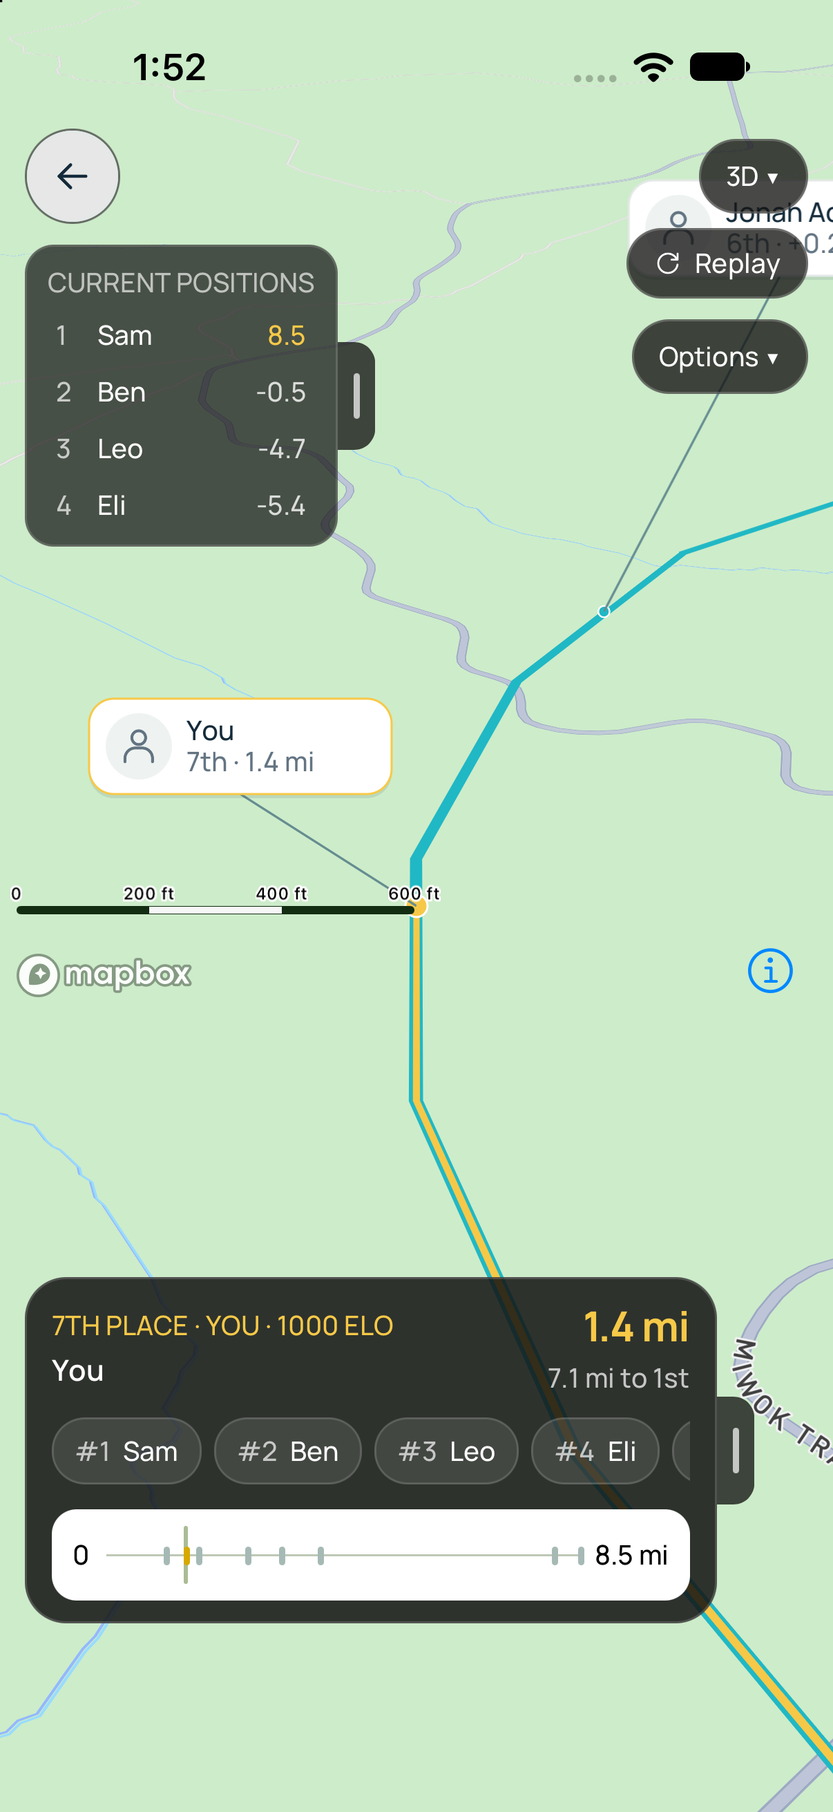
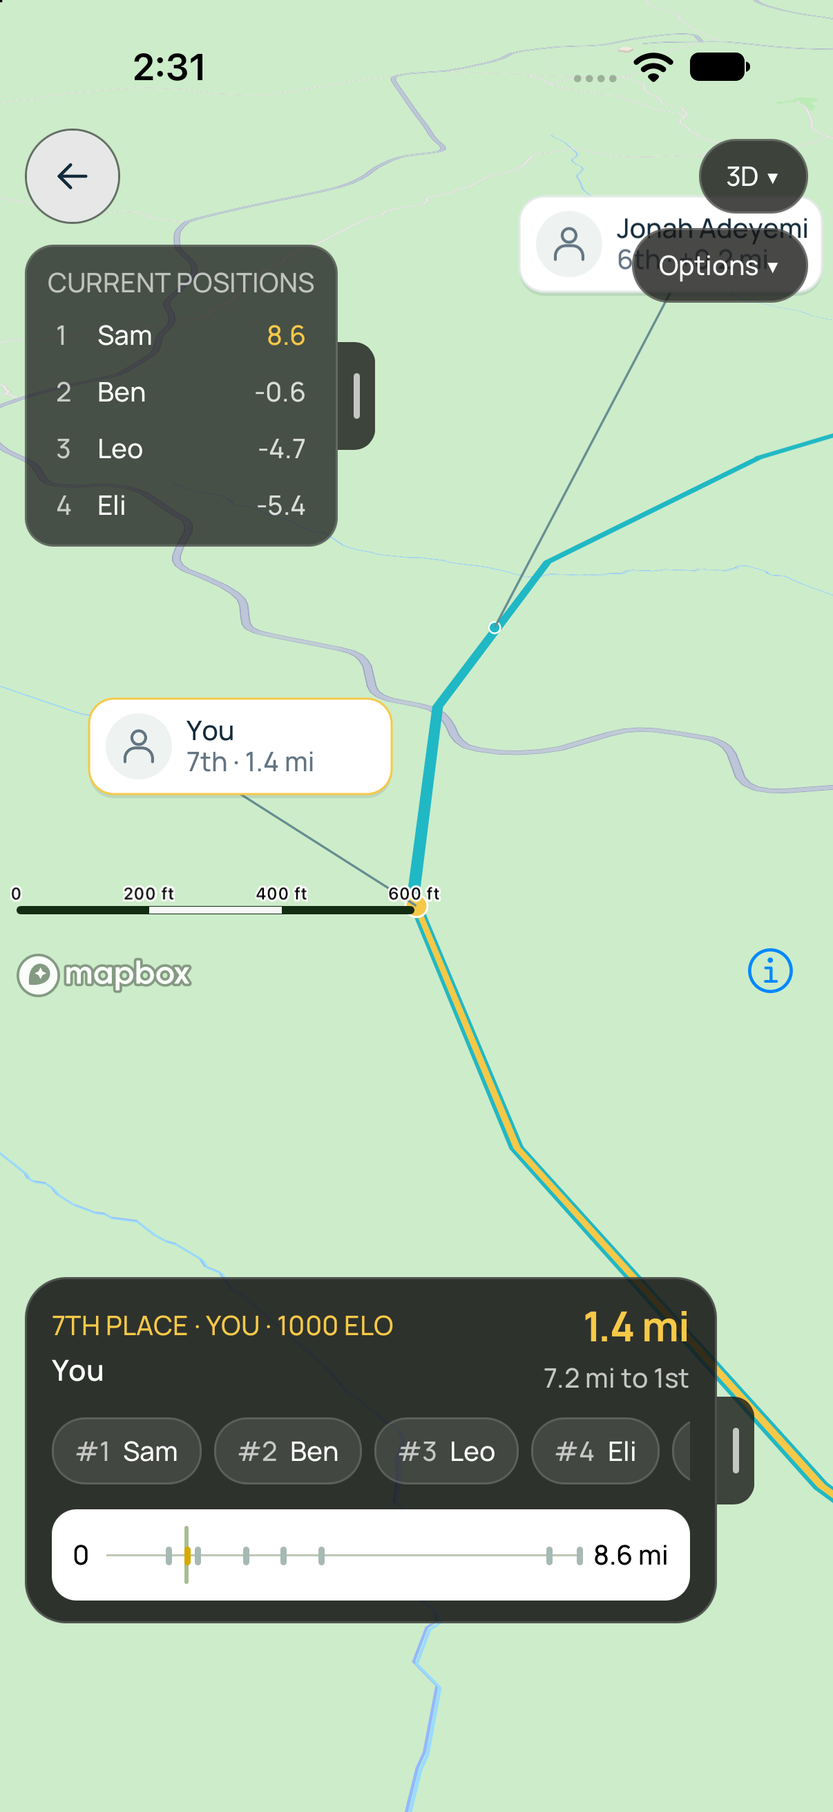
Move fullscreen course replay into Options

diff --git a/apps/mobile/src/features/competition-field.tsx b/apps/mobile/src/features/competition-field.tsx
@@ -4,7 +4,7 @@ import { FieldViewSwitcher } from "../ui/field-view-switcher";
 import { FieldGroundSwitcher } from "../ui/field-ground-switcher";
 import { GeographicCourse } from "./geographic-course";
 import { useCompetitionCourse } from "./use-competition-course";
-import { CompetitionReplayButton } from "./competition-replay";
+import { CompetitionReplayButton, CompetitionReplayModal } from "./competition-replay";
 import { UserAvatar } from "../ui/user-avatar";
 import { textStyle } from "../ui/section";
 import { useFieldFlight } from "../ui/use-field-flight";
@@ -68,6 +68,7 @@ export function CompetitionField({
     flight.cancel();
     setSceneDimension(value);
   };
+  const [courseReplayOpen, setCourseReplayOpen] = useState(false);
   const [expanded, setExpanded] = useState(false);
   const [intervalsCollapsed, setIntervalsCollapsed] = useState(false);
   const [spotlightCollapsed, setSpotlightCollapsed] = useState(false);
@@ -113,7 +114,7 @@ export function CompetitionField({
   useEffect(() => setCourseTarget(null), [accountKey, sport, period?.startsAt.getTime(), arena?.unit]);
   const defaultSpan = fieldDefaultSpan(arena?.unit ?? "km");
   const viewSpan = span ?? defaultSpan;
-  useEffect(() => { if (!isFocused) setExpanded(false); }, [isFocused]);
+  useEffect(() => { if (!isFocused) { setExpanded(false); setCourseReplayOpen(false); } }, [isFocused]);
   const me = arena?.lanes.find((l) => l.you);
   const total = me?.values[2] ?? 0;
 
@@ -210,7 +211,7 @@ export function CompetitionField({
     >
       {sceneDimension === "4d" ? <View style={{ height: sceneHeight }}>
         <View pointerEvents={expanded ? "auto" : "none"} style={{ flex: 1 }}>
-          <GeographicCourse hiddenIds={hiddenIds} lanes={fieldLanes} unit={arena.unit} selectedId={selectedId ?? me?.id ?? ""} focusRequest={focusRequest} onSelect={id => { if (!hold.current?.suppressSelection()) selectAthlete(id); }} course={course} error={courseError} onRetry={retryCourse} distanceTarget={courseTarget} optionsTop={expanded && !queued ? safeTop + 98 : undefined} controlsBottom={expanded ? safeBottom + (spotlightCollapsed ? 132 : 216) : 8} overlaysHidden={overlaysHidden} />
+          <GeographicCourse hiddenIds={hiddenIds} lanes={fieldLanes} unit={arena.unit} selectedId={selectedId ?? me?.id ?? ""} focusRequest={focusRequest} onSelect={id => { if (!hold.current?.suppressSelection()) selectAthlete(id); }} course={course} error={courseError} onRetry={retryCourse} distanceTarget={courseTarget} onReplay={() => setCourseReplayOpen(true)} optionsTop={expanded && !queued ? safeTop + 54 : undefined} controlsBottom={expanded ? safeBottom + (spotlightCollapsed ? 132 : 216) : 8} overlaysHidden={overlaysHidden} />
         </View>
         {!expanded ? <Pressable accessibilityRole="button" accessibilityLabel="Open 3D course in full screen" onPress={expandField} style={{ position: "absolute", inset: 0, alignItems: "center", justifyContent: "flex-end", paddingBottom: 10 }}>
           <View pointerEvents="none" style={{ backgroundColor: "rgba(20, 20, 19, 0.75)", borderRadius: 999, paddingHorizontal: 12, paddingVertical: 6 }}>
@@ -341,6 +342,7 @@ export function CompetitionField({
           <View onTouchStartCapture={() => hold.current?.reset()} style={[f.safe, { backgroundColor: "#0b242c", position: "relative" }]}>
             {fieldContent}
             {queueOverlay}
+            <CompetitionReplayModal open={courseReplayOpen} state={state} selection={replaySelection} dimension={sceneDimension} onClose={() => setCourseReplayOpen(false)} />
             {/* Top Bar HUD */}
             <FieldOverlayView
               hidden={overlaysHidden}
@@ -459,8 +461,8 @@ export function CompetitionField({
               })}
             </SlidingFieldPanel>
 
-            {/* Right Replay action positioned underneath the 2D dropdown */}
-            <FieldOverlayView
+            {/* Geographic replay lives in Options; other field views retain the Replay chip. */}
+            {sceneDimension !== "4d" ? <FieldOverlayView
               hidden={overlaysHidden}
               pointerEvents="box-none"
               style={{
@@ -479,7 +481,7 @@ export function CompetitionField({
                   label="Replay"
                 />}
               </View>
-            </FieldOverlayView>
+            </FieldOverlayView> : null}
 
             {/* Broadcast HUD: Bottom Focused Athlete Spotlight + Player Chips */}
             {focusedLane ? (

diff --git a/apps/mobile/src/ui/course-map.test.ts b/apps/mobile/src/ui/course-map.test.ts
@@ -3,7 +3,7 @@ import { act, create, type ReactTestRenderer } from "react-test-renderer";
 import { afterEach, expect, it, vi } from "vitest";
 import { createRaceCourse, raceCoursePosition, raceEffortMetres } from "@fitness-battle/shared";
 const calls = vi.hoisted(() => ({ setCamera: vi.fn() }));
-vi.mock("react-native", () => ({ View: "View", Text: "Text", Pressable: "Pressable", ScrollView: "ScrollView", Modal: "Modal", Dimensions: { get: () => ({ width: 390, height: 844 }) }, StyleSheet: { create: (value: unknown) => value } }));
+vi.mock("react-native", () => ({ View: "View", Text: "Text", Pressable: "Pressable", ScrollView: "ScrollView", Platform: { OS: "ios" }, Modal: ({ visible, ...props }: { visible: boolean }) => visible ? createElement("Modal", { visible, ...props }) : null, Dimensions: { get: () => ({ width: 390, height: 844 }) }, StyleSheet: { create: (value: unknown) => value } }));
 vi.mock("../lib/haptics", () => ({ playCue: vi.fn() }));
 vi.mock("./athlete-pennant", () => ({ AthletePennant: "AthletePennant" }));
 vi.mock("react-native-svg", () => ({ default: "Svg", G: "G" }));
@@ -18,7 +18,7 @@ afterEach(async () => { if (renderer) await act(async () => renderer.unmount());
 it("delegates native camera frames, pauses following on gestures, and flies from the observed position", async () => {
   vi.stubGlobal("IS_REACT_ACT_ENVIRONMENT", true);
   const course = createRaceCourse("City", [[0, 0], [.02, 0]]);
-  const props = { course, optionsTop: 154, lanes: [{ id: "you", name: "You", initials: "Y", you: true, value: .5 }, { id: "peer", name: "Peer", initials: "P", value: 1 }], unit: "km", selectedId: "you", focusRequest: 0, onSelect: vi.fn() };
+  const props = { course, optionsTop: 110, onReplay: vi.fn(), lanes: [{ id: "you", name: "You", initials: "Y", you: true, value: .5 }, { id: "peer", name: "Peer", initials: "P", value: 1 }], unit: "km", selectedId: "you", focusRequest: 0, onSelect: vi.fn() };
   await act(async () => { renderer = create(createElement(CourseMap, props), { createNodeMock: element => element.type === "Camera" ? calls : null }); });
   await act(async () => renderer.root.findByType("Map" as never).props.onDidFinishLoadingMap());
   expect(renderer.root.findAllByType("ShapeSource" as never).some(node => node.props.id === "course")).toBe(false);
@@ -43,7 +43,14 @@ it("delegates native camera frames, pauses following on gestures, and flies from
   const button = (label: string) => renderer.root.findAllByType("Pressable" as never).find(node => node.props.accessibilityLabel === label);
   expect(button("2D map")).toBeUndefined();
   await act(async () => button("Course options")!.props.onPress());
-  expect(["2D map", "Racers: spaced", "Race overview"].every(label => button(label))).toBe(true);
+  const dismissMenu = renderer.root.findByType("Modal" as never).props.onDismiss;
+  await act(async () => button("Replay")!.props.onPress());
+  expect(props.onReplay).not.toHaveBeenCalled();
+  await act(async () => dismissMenu());
+  expect(props.onReplay).toHaveBeenCalledOnce();
+  expect(button("2D map")).toBeUndefined();
+  await act(async () => button("Course options")!.props.onPress());
+  expect(["Replay", "2D map", "Racers: spaced", "Race overview"].every(label => button(label))).toBe(true);
   expect(["Following", "Recenter", "Zoom in", "Zoom out"].every(label => !button(label))).toBe(true);
   const together = renderer.root.findAllByType("ShapeSource" as never).find(node => node.props.id === "athletes")!.props.shape;
   await act(async () => button("Racers: spaced")!.props.onPress());

diff --git a/apps/mobile/src/features/geographic-course.tsx b/apps/mobile/src/features/geographic-course.tsx
@@ -12,15 +12,15 @@ class MapBoundary extends Component<{ children: ReactNode }, { failed: boolean }
 }
 
 /** Presentation-only scene. The field/replay host owns the weekly course. */
-export function GeographicCourse({ lanes, hiddenIds = [], unit, selectedId, focusRequest, onSelect, course, error = "", onRetry, controlsBottom = 8, overlaysHidden = false, optionsTop, distanceTarget }: {
+export function GeographicCourse({ lanes, hiddenIds = [], unit, selectedId, focusRequest, onSelect, course, error = "", onRetry, controlsBottom = 8, overlaysHidden = false, optionsTop, onReplay, distanceTarget }: {
   hiddenIds?: readonly string[]; lanes: ArenaSceneLane[]; unit: string; selectedId: string; focusRequest: number; onSelect(id: string): void;
   distanceTarget?: CourseDistanceTarget | null;
-  course: RaceCourse | null; error?: string; onRetry?: () => void; controlsBottom?: number; overlaysHidden?: boolean; optionsTop?: number;
+  course: RaceCourse | null; error?: string; onRetry?: () => void; controlsBottom?: number; overlaysHidden?: boolean; optionsTop?: number; onReplay?: () => void;
 }) {
   if (unit !== "mi" && unit !== "km") return null;
   return <View style={{ flex: 1, minHeight: 300 }}>
     {!mobileEnv.mapboxAccessToken ? <Text style={{ ...textStyle("body"), padding: 16 }}>Mapbox access is not configured for this build.</Text> : !course ?
       <View style={{ flex: 1, justifyContent: "center", alignItems: "center", padding: 16, gap: 12 }}><Text accessibilityRole={error ? "alert" : undefined} style={textStyle("body")}>{error || "Loading this competition’s course…"}</Text>{error && onRetry ? <Pressable accessibilityRole="button" onPress={onRetry} style={{ minHeight: 44, justifyContent: "center", paddingHorizontal: 16 }}><Text style={textStyle("label")}>Retry</Text></Pressable> : null}</View> :
-      <MapBoundary><Suspense fallback={<ActivityIndicator />}><CourseMap key={course.name + course.length} course={course} lanes={lanes} hiddenIds={hiddenIds} unit={unit} selectedId={selectedId} focusRequest={focusRequest} onSelect={onSelect} distanceTarget={distanceTarget} controlsBottom={controlsBottom} overlaysHidden={overlaysHidden} optionsTop={optionsTop} /></Suspense></MapBoundary>}
+      <MapBoundary><Suspense fallback={<ActivityIndicator />}><CourseMap key={course.name + course.length} course={course} lanes={lanes} hiddenIds={hiddenIds} unit={unit} selectedId={selectedId} focusRequest={focusRequest} onSelect={onSelect} distanceTarget={distanceTarget} controlsBottom={controlsBottom} overlaysHidden={overlaysHidden} optionsTop={optionsTop} onReplay={onReplay} /></Suspense></MapBoundary>}
   </View>;
 }

diff --git a/apps/mobile/src/ui/course-options.tsx b/apps/mobile/src/ui/course-options.tsx
@@ -1,10 +1,12 @@
-import { Pressable, Text, View } from "react-native";
+import { useRef } from "react";
+import { Platform, Pressable, Text, View } from "react-native";
 import { AnchoredMenu, useAnchoredMenu } from "./anchored-menu";
 import { textStyle } from "./section";
 import { playCue } from "../lib/haptics";
 import { SHELL_COLORS as c } from "../theme";
 
-export function CourseOptions({ flat, spaced, onToggleDimension, onToggleSpacing, onOverview }: {
+export function CourseOptions({ flat, spaced, onToggleDimension, onToggleSpacing, onOverview, onReplay }: {
+  onReplay?: () => void;
   flat: boolean;
   spaced: boolean;
   onToggleDimension(): void;
@@ -13,9 +15,19 @@ export function CourseOptions({ flat, spaced, onToggleDimension, onToggleSpacing
 }) {
   const { open, close, toggle, anchorRef, menuLayout } = useAnchoredMenu({
     minWidth: 176,
-    estimatedHeight: 132,
+    estimatedHeight: onReplay ? 176 : 132,
   });
+  const pendingReplay = useRef<(() => void) | null>(null);
+  const finishReplay = () => {
+    const replay = pendingReplay.current;
+    pendingReplay.current = null;
+    replay?.();
+  };
   const options = [
+    ...(onReplay ? [{ label: "Replay", action: () => {
+      if (Platform.OS === "ios") pendingReplay.current = onReplay;
+      else onReplay();
+    } }] : []),
     { label: flat ? "3D chase" : "2D map", action: onToggleDimension },
     { label: spaced ? "Racers: spaced" : "Racers: together", action: onToggleSpacing },
     { label: "Race overview", action: onOverview },
@@ -39,12 +51,12 @@ export function CourseOptions({ flat, spaced, onToggleDimension, onToggleSpacing
     >
       <Text style={{ ...textStyle("caption"), color: "#ffffff" }}>Options ▾</Text>
     </Pressable>
-    <AnchoredMenu open={open} onClose={close} menuLayout={menuLayout} accessibilityLabel="Close course options">
+    <AnchoredMenu open={open} onClose={close} onDismiss={onReplay ? finishReplay : undefined} menuLayout={menuLayout} accessibilityLabel="Close course options">
       {options.map(option => <Pressable
         key={option.label}
         accessibilityRole="button"
         accessibilityLabel={option.label}
-        onPress={() => { void playCue("selection"); option.action(); close(); }}
+        onPress={() => { void playCue("selection"); close(); option.action(); }}
         style={({ pressed }) => [{ minHeight: 44, paddingHorizontal: 12, justifyContent: "center" }, pressed && { opacity: 0.7 }]}
       >
         <Text style={{ ...textStyle("caption"), color: c.ink }}>{option.label}</Text>

diff --git a/apps/mobile/src/features/competition-field.test.ts b/apps/mobile/src/features/competition-field.test.ts
@@ -19,7 +19,7 @@ vi.mock("react-native-svg", () => ({ default: "Svg", G: "SvgG" }));
 vi.mock("./queued-field", () => ({ QueuedField: "QueuedField" }));
 vi.mock("./geographic-course", () => ({ GeographicCourse: "GeographicCourse" }));
 vi.mock("./use-competition-course", () => ({ useCompetitionCourse: () => ({ course: DEMO_RACE_COURSE, error: "", retry() {} }) }));
-vi.mock("./competition-replay", () => ({ CompetitionReplayButton: "ReplayButton" }));
+vi.mock("./competition-replay", () => ({ CompetitionReplayButton: "ReplayButton", CompetitionReplayModal: "ReplayModal" }));
 vi.mock("../ui/field-view-switcher", () => ({
   FieldViewSwitcher: ({ value, onChange }: { value: string; onChange: (v: string) => void }) =>
     createElement("FieldViewSwitcher", { value, onChange }),
@@ -123,8 +123,14 @@ it("keeps 4D inside the fullscreen host with the same panels, selection and repl
     expect(overview().props.view.center).toBe(peer.value);
   }
   expect(mocks.fly).not.toHaveBeenCalled();
-  const replay = renderer.root.findAllByType("ReplayButton" as never).find(node => node.props.dimension === "4d")!;
-  expect(replay.props.course).toBeUndefined();
+  expect(renderer.root.findAllByType("ReplayButton" as never)).toHaveLength(0);
+  await act(async () => map().props.onReplay());
+  const replay = renderer.root.findByType("ReplayModal" as never);
+  expect(replay.props.open).toBe(true);
+  expect(replay.props.dimension).toBe("4d");
+  expect(replay.props.selection.sport).toBe("running");
+  await act(async () => replay.props.onClose());
+  expect(renderer.root.findByType("ReplayModal" as never).props.open).toBe(false);
   await act(async () => { root().props.onTouchStartCapture(); scene().props.onTouchStart(touch()); vi.advanceTimersByTime(450); });
   expect(map().props.overlaysHidden).toBe(true);
   await act(async () => scene().props.onTouchEnd());
@@ -173,6 +179,6 @@ it("expands the whole 3D preview and only exposes course options in full screen"
   expect(renderer.root.findAllByType("Text" as never).some(node => node.props.children === "Tap to open full screen")).toBe(true);
   await act(async () => button("Open 3D course in full screen").props.onPress());
   expect(map().parent!.props.pointerEvents).toBe("auto");
-  expect(map().props.optionsTop).toBe(154);
+  expect(map().props.optionsTop).toBe(110);
   expect(button("Open 3D course in full screen")).toBeUndefined();
 });

diff --git a/apps/mobile/src/features/competition-replay.tsx b/apps/mobile/src/features/competition-replay.tsx
@@ -41,7 +41,6 @@ export function CompetitionReplayButton({
   variant?: "button" | "inline";
 }) {
   const [open, setOpen] = useState(false);
-  const reduced = useReducedMotion();
   return (
     <>
       {variant === "inline" ? (
@@ -73,28 +72,26 @@ export function CompetitionReplayButton({
       ) : (
         <FocusButton secondary label={label} onPress={() => setOpen(true)} />
       )}
-      {open && (
-        <Modal
-          visible
-          animationType={reduced ? "none" : "slide"}
-          presentationStyle="fullScreen"
-          onRequestClose={() => setOpen(false)}
-        >
-          <SafeAreaProvider>
-            <SafeAreaView style={f.safe} edges={["top", "bottom"]}>
-              <ReplayViewer
-                key={`${selection.sport}:${selection.track}:${selection.periodStart}`}
-                state={state}
-                selection={selection}
-                initialDimension={dimension}
-                onClose={() => setOpen(false)}
-              />
-            </SafeAreaView>
-          </SafeAreaProvider>
-        </Modal>
-      )}
+      <CompetitionReplayModal open={open} state={state} selection={selection} dimension={dimension} onClose={() => setOpen(false)} />
     </>
   );
+}
+
+export function CompetitionReplayModal({ open, state, selection, dimension, onClose }: {
+  open: boolean;
+  state: CompeteState;
+  selection: CompetitionReplaySelection;
+  dimension: "2d" | "3d" | "4d";
+  onClose(): void;
+}) {
+  const reduced = useReducedMotion();
+  return open ? <Modal visible animationType={reduced ? "none" : "slide"} presentationStyle="fullScreen" onRequestClose={onClose}>
+    <SafeAreaProvider>
+      <SafeAreaView style={f.safe} edges={["top", "bottom"]}>
+        <ReplayViewer key={`${selection.sport}:${selection.track}:${selection.periodStart}`} state={state} selection={selection} initialDimension={dimension} onClose={onClose} />
+      </SafeAreaView>
+    </SafeAreaProvider>
+  </Modal> : null;
 }
 
 function ReplayTimeline({ cursor, count, caption, onSeek }: { cursor: number; count: number; caption: string; onSeek: (cursor: number) => void }) {

diff --git a/apps/mobile/src/ui/course-map.tsx b/apps/mobile/src/ui/course-map.tsx
@@ -11,9 +11,9 @@ import { textStyle } from "./section";
 import { useReducedMotion } from "./use-reduced-motion";
 
 Mapbox.setAccessToken(mobileEnv.mapboxAccessToken);
-export default function CourseMap({ course, lanes, hiddenIds = [], unit, selectedId, focusRequest, onSelect, controlsBottom = 8, optionsTop, overlaysHidden = false, distanceTarget }: {
+export default function CourseMap({ course, lanes, hiddenIds = [], unit, selectedId, focusRequest, onSelect, controlsBottom = 8, optionsTop, onReplay, overlaysHidden = false, distanceTarget }: {
   distanceTarget?: CourseDistanceTarget | null;
-  hiddenIds?: readonly string[]; course: RaceCourse; lanes: ArenaSceneLane[]; unit: string; selectedId: string; focusRequest: number; onSelect(id: string): void; controlsBottom?: number; optionsTop?: number; overlaysHidden?: boolean;
+  hiddenIds?: readonly string[]; course: RaceCourse; lanes: ArenaSceneLane[]; unit: string; selectedId: string; focusRequest: number; onSelect(id: string): void; controlsBottom?: number; optionsTop?: number; onReplay?: () => void; overlaysHidden?: boolean;
 }) {
   const prefix = useId();
   const ref = useRef<ComponentRef<typeof Camera>>(null);
@@ -78,6 +78,7 @@ export default function CourseMap({ course, lanes, hiddenIds = [], unit, selecte
     {error ? <Text accessibilityRole="alert" style={{ ...textStyle("body"), position: "absolute", left: 8, right: 8, bottom: controlsBottom + 136, padding: 12, borderRadius: 12, backgroundColor: "#ffffff" }}>{error}</Text> : null}
     {optionsTop !== undefined ? <FieldOverlayView hidden={overlaysHidden} onTouchStart={event => event.stopPropagation()} style={{ position: "absolute", top: optionsTop, right: 12 }}>
       <CourseOptions
+        onReplay={onReplay}
         flat={flat}
         spaced={spaced}
         onToggleDimension={() => { controller.dimension(flat ? "3d" : "2d"); setFlat(!flat); if (controller.following) focus(); }}

diff --git a/apps/mobile/src/ui/anchored-menu.tsx b/apps/mobile/src/ui/anchored-menu.tsx
@@ -59,6 +59,7 @@ export function useAnchoredMenu(options?: {
 export function AnchoredMenu({
   open,
   onClose,
+  onDismiss,
   menuLayout,
   accessibilityLabel = "Close menu",
   style,
@@ -66,18 +67,21 @@ export function AnchoredMenu({
 }: {
   open: boolean;
   onClose: () => void;
+  onDismiss?: () => void;
   menuLayout: AnchoredMenuLayout | null;
   accessibilityLabel?: string;
   style?: StyleProp<ViewStyle>;
   children?: ReactNode;
 }) {
-  if (!open) return null;
+  // Keep iOS Modal mounted through dismissal when a caller needs its completion.
+  if (!open && !onDismiss) return null;
   return (
     <Modal
       visible={open}
       transparent
       animationType="none"
       onRequestClose={onClose}
+      onDismiss={onDismiss}
     >
       <Pressable
         style={StyleSheet.absoluteFill}

diff --git a/apps/mobile/src/ui/arena-interactions.test.ts b/apps/mobile/src/ui/arena-interactions.test.ts
@@ -96,7 +96,7 @@ vi.mock("../features/round-takeover", () => ({ RoundTakeover: () => null }));
 vi.mock("../features/geographic-course", () => ({ GeographicCourse: "GeographicCourse" }));
 vi.mock("../features/use-competition-course", () => ({ useCompetitionCourse: () => ({ course: null, error: "", retry() {} }) }));
 vi.mock("../features/competition-replay", () => ({
-  CompetitionReplayButton: "CompetitionReplayButton",
+  CompetitionReplayButton: "CompetitionReplayButton", CompetitionReplayModal: "ReplayModal",
 }));
 vi.mock("./icon-button", () => ({ IconButton: "IconButton" }));
 vi.mock("./arena-3d", () => ({ Arena3D: () => null }));

diff --git a/docs/reviews/mobile-compete-options/README.md b/docs/reviews/mobile-compete-options/README.md
@@ -6,8 +6,8 @@ installed native Mapbox development build and this branch's local Metro bundle.
 ![Preview, full screen, and Options](review.png)
 
 - [Inline preview](preview.png): tap-to-expand hint; no fullscreen icon or toolbar.
-- [Full screen](fullscreen.png): Options beneath Replay; no bottom toolbar.
-- [Open menu](options.png): 2D map / 3D chase, racer spacing, and Race overview only.
+- [Full screen](fullscreen.png): Options beneath the dimension selector; no bottom toolbar.
+- [Open menu](options.png): Replay, 2D map / 3D chase, racer spacing, and Race overview only.
 
 The screenshots use the existing isolated Walking debug fixture. For capture,
 the automatic fixture reset after acknowledging the debug replay was temporarily
@@ -15,11 +15,13 @@ disabled locally, then restored before committing. No account data or scoring
 rules were changed.
 
 Device checks: tapping the preview opens the full-screen field; Options opens an
-anchored dropdown; choosing 2D map closes it and changes the map pose. Camera
+anchored dropdown; choosing 2D map closes it and changes the map pose. Replay opens from Options
+and returns to the full-screen field. On iOS, replay presentation waits for the
+menu dismissal to finish. Camera
 refocusing, racer spacing, overview, and removed controls are covered by the
 existing mobile interaction tests.
 
-Validation: `pnpm typecheck`, `pnpm lint:ui`, and 20 tests across course-map,
-competition-field, arena-interactions, and competition-replay passed. Native
+Validation: `pnpm typecheck`, `pnpm lint:ui`, and 21 tests across course-map,
+competition-field, arena-interactions, competition-replay, and anchored-menu passed. Native
 pinch remains enabled in Mapbox; this desktop simulator pass did not physically
 verify a two-finger gesture. No web source or browser zoom behavior changed.

diff --git a/docs/design-guide.md b/docs/design-guide.md
@@ -466,9 +466,9 @@ in standings focus that athlete in the retained field. The redundant view row an
 
 The native 3D course preview opens by tapping the map, using the same
 “Tap to open full screen” hint as 2D. The preview has no course toolbar or
-fullscreen icon. Fullscreen places a compact **Options** dropdown below Replay,
-matching the existing HUD chips and anchored menus. It contains 2D map / 3D chase,
-racer spacing and Race overview. Course names, Following / Recenter and zoom
+fullscreen icon. Fullscreen places a compact **Options** dropdown below the dimension selector,
+matching the existing HUD chips and anchored menus. It contains Replay, 2D map /
+3D chase, racer spacing and Race overview. Replay remains a chip in the preview. Course names, Following / Recenter and zoom
 buttons are removed. The map engine owns pinch zoom; selecting an athlete resumes
 following. Browser map gesture behavior is unchanged.
 
